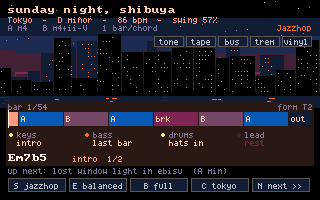
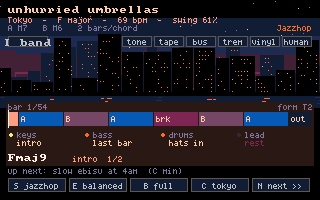
loficity: the band panel (I) - swap or mute keys / bass / lead / drums per style
Like the radios' band: each style gets four chairs, each cycling the
style's own casting, two or three alternatives and off. Only the sound
changes: the arranger plays the same notes into whichever instrument
sits in the chair. A pick lands at the next bar line and is saved per
style (save_int). Alternatives: Wurli / felt / bright upright / celesta
/ music box / string machine / bowed glass / CZ pad / FM4 glass / house
piano / supersaw / nylon / 12-string / harp / hurdy-gurdy keys; round /
FM / fretless / resonant PD / 808 / 303-style acid bass; muted trumpet
/ tenor / clarinet / cello / shawm / pan pipe / ooh voice / MME / organ
leads; brushes / 808 / 909 / cajon kits. The guitar-family keys keep
their held figures.

Levels: every alternative measured against its chair's default (87
stem renders), trimmed per STYLE (the muted trumpet needs +11 in
jazzhop, +8 in bossa); boosts on the slot eq, which now uses all seven
private FX buses. Spot checks land within 0-2 dB. DE_DEFINES pins
(LOFI_STYLE / LOFI_SEED / LC_FORCE) make these measurements without
editing the cart.

diff --git a/tools/carts/loficity.c b/tools/carts/loficity.c
@@ -26,8 +26,8 @@
   ],
   "description": {
     "summary": "Endless generated lofi in all nine Lofi Cities styles, arranged exactly the way loficities.com arranges it - played on our own engines.",
-    "detail": "Every track is one seed, and the seed plans everything the way loficities.com does, for whichever of its nine styles you pick: a key (each track moves to a related key), two progressions from the style's bank, 1 or 2 bars per chord, a tempo/swing/snare-lag from the style's ENERGY table, a drum groove from the style's own grids, a form (T1-T3, grown to 2.5-4 minutes) whose every section switches layers on and off. Per bar: fills, B-section variations, the keys comping by the style's own cells (fingerpicking patterns, bossa batida, house stabs, piano rolls) and PUSHING the next chord, the style's own bass line (a piano left hand, a viol walk, a synth bass cell, a house cell), a motif lead, and the master tone automated (the intro opening from 900 Hz, the break dipping, the outro closing). Each style has its own band on our engines: Rhodes, felt grand, unison-saw pads + drone, nylon and electric guitars with held figures and ghost strums, a driven organ with a pump, a lute with courses over a bowed viol and a drone, a muted brass horn, recorders, FM bells, a morphing kit with style-specific percussion. The screen is the arrangement made visible: the form strip with the playhead, what each part is doing, the chord, fills and pushes, and what's up next.",
-    "controls": "S style (from the next track) . N / SPACE next track . E energy (chill/balanced/upbeat, next track) . B band (full / no drums / chords only, next bar) . C city (the words the titles are made of) . 1-5 fx off/on (tone . tape . bus . trem . vinyl) . H help"
+    "detail": "Every track is one seed, and the seed plans everything the way loficities.com does, for whichever of its nine styles you pick: a key (each track moves to a related key), two progressions from the style's bank, 1 or 2 bars per chord, a tempo/swing/snare-lag from the style's ENERGY table, a drum groove from the style's own grids, a form (T1-T3, grown to 2.5-4 minutes) whose every section switches layers on and off. Per bar: fills, B-section variations, the keys comping by the style's own cells (fingerpicking patterns, bossa batida, house stabs, piano rolls) and PUSHING the next chord, the style's own bass line (a piano left hand, a viol walk, a synth bass cell, a house cell), a motif lead, and the master tone automated (the intro opening from 900 Hz, the break dipping, the outro closing). Each style has its own band on our engines: Rhodes, felt grand, unison-saw pads + drone, nylon and electric guitars with held figures and ghost strums, a driven organ with a pump, a lute with courses over a bowed viol and a drone, a muted brass horn, recorders, FM bells, a morphing kit with style-specific percussion. A band panel (I) gives each style four chairs - keys, bass, lead, drums - each cycling the style's own casting, two or three juicy alternatives (a Wurli, a 303 acid bass, a muted trumpet, a hurdy-gurdy, an 808 or 909 kit, a cajon...) and off, level-matched by measurement. The screen is the arrangement made visible: the form strip with the playhead, what each part is doing, the chord, fills and pushes, and what's up next.",
+    "controls": "S style (from the next track) . I the band: per part (keys / bass / lead / drums) swap the instrument or mute it, from the next bar, remembered per style . N / SPACE next track . E energy (chill/balanced/upbeat, next track) . B band (full / no drums / chords only, next bar) . C city (the words the titles are made of) . 1-6 off/on: tone . tape . bus . trem . vinyl . human . H help"
   }
 }
 de:meta */
@@ -48,10 +48,17 @@ de:meta */
 // a schedule_hit delay counts from whichever audio callback drains it, which swung notes by up to a
 // 23 ms buffer on native (gated by tools/schedule-check).
 //
-//   S style   N / SPACE next   E energy   B band   C city   1-5 fx   H help
+//   S style   I band (swap/mute parts)   N / SPACE next   E energy   B band   C city   1-6 fx   H help
 
+#ifndef LOFI_SEED
 #define LOFI_SEED 0      // pin a seed (0 = a random one each boot)
+#endif
+#ifndef LOFI_STYLE
 #define LOFI_STYLE -1    // pin the boot style (0..8 = jazzhop..medieval; -1 = jazzhop)
+#endif
+#ifndef LC_FORCE
+#define LC_FORCE -1      // test pin: chair*10 + candidate for the boot style, and the saved picks IGNORED (99 = ignore only)
+#endif
 #define LC_WOW 0.5f      // tape wow scale: 1 = their depth (+-3..12 cents at ~0.5 Hz), which read as seasick
 #define LC_FLUTTER 0.03f // tape flutter: ~1.6 cents at 6 Hz, their depth (0.12 was 4x that - an audible warble)
 #define LC_SAT 0.0f      // tape saturation: OFF. tape()'s curve is tanh(g*x)/tanh(g), normalised so full scale stays full
@@ -266,6 +273,172 @@ static void inst(int s, int wave, int a, int d, int sus, int r, float h, float t
 }
 
 // the kit's three morphdrum voices, from the style's own kit roll (every style replaces drums.kit)
+// ═══ THE BAND PANEL (I) — per-style CHAIRS, like the radios' band: each part cycles between the style's own
+// casting (candidate 0), a couple of alternatives, and OFF. Only the SOUND changes — the arranger plays the
+// same notes into whichever instrument sits in the chair. A change lands at the next bar; picks are saved.
+enum { CH_KEYS, CH_BASS, CH_LEAD, CH_DRUMS, NCHAIR };
+static const char *CHAIR_NAME[NCHAIR] = { "keys", "bass", "lead", "drums" };
+enum { CK_DEF = 0, CK_OFF,
+       CK_WURLI, CK_FELT, CK_BRIGHTUP, CK_CELESTA, CK_RHODES, CK_STRINGS, CK_GLASS, CK_NYLON, CK_VIBESK,
+       CK_PDPAD, CK_FM4GLASS, CK_HOUSEPNO, CK_SUPERSAW, CK_12STR, CK_MUSICBOX, CK_HARP, CK_HURDY,
+       CB_UPRIGHT, CB_ROUND, CB_FMRH, CB_FRETLESS, CB_PDRESO, CB_808, CB_ACID, CB_FM,
+       CL_MUTEDTP, CL_TENOR, CL_VIBES, CL_CLARINET, CL_CELESTA, CL_PANPIPE, CL_OOH, CL_SUPERSAW, CL_MME,
+       CL_FLUTE, CL_ORGAN, CL_CELLO, CL_SHAWM,
+       CD_BRUSH, CD_808, CD_909, CD_CAJON, NCK };
+typedef struct { const char *name; int kind; } Cand;
+typedef struct { int n; Cand c[4]; } Chair;
+#define C4(...) { 4, { __VA_ARGS__ } }   // variadic: each candidate is a braced {name, kind}, whose comma a
+#define C3(...) { 3, { __VA_ARGS__ } }   // plain macro argument list would split
+#define C2(...) { 2, { __VA_ARGS__ } }
+static const Chair CHAIRS[NSTYLE][NCHAIR] = {
+    [S_JAZZHOP] = { C4({"Rhodes",0},{"Wurli",CK_WURLI},{"felt piano",CK_FELT},{"off",CK_OFF}),
+                    C4({"upright",0},{"round sine",CB_ROUND},{"FM rhodes-bass",CB_FMRH},{"off",CK_OFF}),
+                    C4({"vibes / flute",0},{"muted trumpet",CL_MUTEDTP},{"tenor sax",CL_TENOR},{"off",CK_OFF}),
+                    C4({"dusty",0},{"brushes",CD_BRUSH},{"808",CD_808},{"off",CK_OFF}) },
+    [S_PIANO]   = { C4({"felt grand",0},{"bright upright",CK_BRIGHTUP},{"celesta",CK_CELESTA},{"off",CK_OFF}),
+                    C3({"left hand",0},{"upright",CB_UPRIGHT},{"off",CK_OFF}),
+                    C4({"right hand",0},{"vibes",CL_VIBES},{"clarinet",CL_CLARINET},{"off",CK_OFF}),
+                    C2({"brushes",0},{"off",CK_OFF}) },
+    [S_AMBIENT] = { C4({"saw pad",0},{"string machine",CK_STRINGS},{"bowed glass",CK_GLASS},{"off",CK_OFF}),
+                    C2({"sub",0},{"off",CK_OFF}),
+                    C4({"FM bell",0},{"celesta",CL_CELESTA},{"pan pipe",CL_PANPIPE},{"off",CK_OFF}),
+                    C2({"felt",0},{"off",CK_OFF}) },
+    [S_BOSSA]   = { C4({"nylon",0},{"Rhodes",CK_RHODES},{"vibes",CK_VIBESK},{"off",CK_OFF}),
+                    C3({"upright",0},{"fretless",CB_FRETLESS},{"off",CK_OFF}),
+                    C4({"nylon / flute",0},{"muted trumpet",CL_MUTEDTP},{"ooh voice",CL_OOH},{"off",CK_OFF}),
+                    C3({"brushes",0},{"cajon",CD_CAJON},{"off",CK_OFF}) },
+    [S_SYNTH]   = { C4({"poly saw",0},{"CZ pad",CK_PDPAD},{"FM4 glass",CK_FM4GLASS},{"off",CK_OFF}),
+                    C4({"saw mono",0},{"resonant PD",CB_PDRESO},{"808 sub",CB_808},{"off",CK_OFF}),
+                    C4({"square / glass",0},{"supersaw",CL_SUPERSAW},{"MME",CL_MME},{"off",CK_OFF}),
+                    C4({"city",0},{"808",CD_808},{"909",CD_909},{"off",CK_OFF}) },
+    [S_HOUSE]   = { C4({"organ",0},{"house piano",CK_HOUSEPNO},{"supersaw",CK_SUPERSAW},{"off",CK_OFF}),
+                    C4({"sine",0},{"303 acid",CB_ACID},{"FM",CB_FM},{"off",CK_OFF}),
+                    C3({"vox / pluck",0},{"flute",CL_FLUTE},{"off",CK_OFF}),
+                    C3({"house",0},{"909",CD_909},{"off",CK_OFF}) },
+    [S_GUITAR]  = { C4({"electric",0},{"nylon",CK_NYLON},{"12-string",CK_12STR},{"off",CK_OFF}),
+                    C3({"finger",0},{"upright",CB_UPRIGHT},{"off",CK_OFF}),
+                    C3({"electric",0},{"organ",CL_ORGAN},{"off",CK_OFF}),
+                    C3({"dust",0},{"brushes",CD_BRUSH},{"off",CK_OFF}) },
+    [S_SAD]     = { C4({"felt piano",0},{"Rhodes",CK_RHODES},{"music box",CK_MUSICBOX},{"off",CK_OFF}),
+                    C3({"sub",0},{"upright",CB_UPRIGHT},{"off",CK_OFF}),
+                    C4({"muted horn",0},{"cello",CL_CELLO},{"clarinet",CL_CLARINET},{"off",CK_OFF}),
+                    C2({"hush",0},{"off",CK_OFF}) },
+    [S_MEDIEVAL]= { C4({"lute",0},{"harp",CK_HARP},{"hurdy-gurdy",CK_HURDY},{"off",CK_OFF}),
+                    C2({"viol",0},{"off",CK_OFF}),
+                    C4({"recorder / wood",0},{"shawm",CL_SHAWM},{"pan pipe",CL_PANPIPE},{"off",CK_OFF}),
+                    C2({"frame drums",0},{"off",CK_OFF}) },
+};
+// level trims per alternative, dB vs the style's own casting in that chair: stem RMS of the chair alone, 40 s,
+// seeds whose lead enters early (2026-09-28). Per STYLE, not per instrument: the muted trumpet needs +11 in jazzhop
+// and +8 in bossa because the chair's default differs. Piano's bass/lead defaults play on its keys slot, so those
+// trims target jazzhop's proportions (bass keys-7, lead keys-4); sad's lead window was silent, so its two are estimates.
+// A boost goes on the slot's eq (a private bus), a cut on its level; boosts cap at +12.
+static const float TRIM[NSTYLE][NCHAIR][4] = {
+    [S_JAZZHOP] = { { 0, 0.0f, 12.0f, 0 }, { 0, -12.2f, -8.8f, 0 }, { 0, 11.0f, -6.1f, 0 }, { 0, 0.3f, -1.1f, 0 } },
+    [S_PIANO]   = { { 0, 3.5f, -3.8f, 0 }, { 0, -3.6f, 0, 0 },      { 0, -6.5f, -9.1f, 0 }, { 0 } },
+    [S_AMBIENT] = { { 0, -2.1f, -0.1f, 0 }, { 0 },                  { 0, 12.0f, 8.0f, 0 },  { 0 } },
+    [S_BOSSA]   = { { 0, -7.4f, -6.8f, 0 }, { 0, -10.1f, 0, 0 },    { 0, 8.2f, -6.0f, 0 },  { 0, 3.3f, 0, 0 } },
+    [S_SYNTH]   = { { 0, -3.2f, 7.0f, 0 }, { 0, 4.7f, -2.0f, 0 },   { 0, 5.0f, 8.2f, 0 },   { 0, -0.9f, -0.5f, 0 } },
+    [S_HOUSE]   = { { 0, 12.0f, -2.5f, 0 }, { 0, 1.2f, -4.5f, 0 },  { 0, -3.1f, 0, 0 },     { 0, 0.7f, 0, 0 } },
+    [S_GUITAR]  = { { 0, -0.8f, 3.1f, 0 }, { 0, 1.4f, 0, 0 },       { 0, -3.5f, 0, 0 },     { 0, 0.3f, 0, 0 } },
+    [S_SAD]     = { { 0, -1.5f, 12.0f, 0 }, { 0, 6.0f, 0, 0 },      { 0, -3.0f, -7.3f, 0 }, { 0 } },
+    [S_MEDIEVAL]= { { 0, -0.5f, -14.0f, 0 }, { 0 },                 { 0, -13.4f, -10.3f, 0 }, { 0 } },
+};
+static int chairSel[NSTYLE][NCHAIR];
+static float chair_trim(const Plan *P, int ch) { return TRIM[P->style][ch][chairSel[P->style][ch] & 3]; }
+static int chairDirty = 0;          // a change waiting for the next bar
+static bool showBand = false; static int bandRow = 0;
+static int ckind(const Plan *P, int ch) { const Chair *c = &CHAIRS[P->style][ch]; int i = chairSel[P->style][ch]; return i < c->n ? c->c[i].kind : 0; }
+static int guitarish(int k) { return k == CK_NYLON || k == CK_12STR || k == CK_HARP; }
+static void chairs_load(void) {
+    for (int st = 0; st < NSTYLE; st++) for (int c = 0; c < NCHAIR; c++) {
+        char key[16]; snprintf(key, sizeof key, "ch%d%d", st, c);
+        int v = load_int(key, 0); chairSel[st][c] = v >= 0 && v < CHAIRS[st][c].n ? v : 0;
+    }
+}
+static void chair_cycle(int style, int c, int dir) {
+    int n = CHAIRS[style][c].n; chairSel[style][c] = (chairSel[style][c] + dir + n) % n;
+    char key[16]; snprintf(key, sizeof key, "ch%d%d", style, c); save_int(key, chairSel[style][c]);
+    if (style == cur.P.style) chairDirty = 1;
+}
+static void cast_keys(int k, const Plan *P) {
+    for (int s = I_KEYS; s <= I_KEYSL; s++) {
+        int lng = s == I_KEYSL;
+        switch (k) {
+        case CK_WURLI:    inst(s, INSTR_EPIANO, 4, 0, 6, lng ? 2600 : 320, 0.55f, 0.40f, 0.30f); break;
+        case CK_RHODES:   inst(s, INSTR_EPIANO, 2, 0, 7, lng ? 2600 : 320, 0.10f, 0.36f, 0.18f); break;
+        case CK_FELT:     inst(s, INSTR_PIANO, 2, 0, 7, lng ? 2800 : 450, 0.04f, 0.20f, 0.55f); break;
+        case CK_BRIGHTUP: inst(s, INSTR_PIANO, 2, 0, 7, lng ? 2400 : 380, 0.22f, 0.62f, 0.30f); break;
+        case CK_HOUSEPNO: inst(s, INSTR_PIANO, 1, 0, 7, lng ? 1400 : 180, 0.22f, 0.85f, 0.25f); break;
+        case CK_CELESTA:  inst(s, INSTR_MALLET, 1, 500, 2, lng ? 1200 : 400, 0.50f, 0.55f, 0.45f); break;
+        case CK_MUSICBOX: inst(s, INSTR_MALLET, 0, 700, 0, 500, 0.72f, 0.75f, 0.30f); instrument_tune(s, 12); break;
+        case CK_VIBESK:   inst(s, INSTR_MALLET, 1, 0, 7, lng ? 1600 : 900, 0.25f, 0.50f, 0.85f); instrument_filter(s, FILTER_LOW, 3000, 0); break;
+        case CK_STRINGS:  inst(s, INSTR_SAW, 250, 0, 7, lng ? 2500 : 900, 0.5f, 0.5f, 0.5f); instrument_unison(s, 3, 0.15f);
+                          instrument_filter(s, FILTER_LOW, 3200, 0); instrument_lfo(s, 0, LFO_PITCH, 5.0f, 0.03f); break;
+        case CK_GLASS:    inst(s, INSTR_MODAL, 120, 0, 7, lng ? 2500 : 1500, 0.88f, 0.18f, 0.92f); break;
+        case CK_PDPAD:    inst(s, INSTR_PD, 300, 0, 7, lng ? 2000 : 1200, 0.30f, 0.30f, 0.50f); instrument_filter(s, FILTER_LOW, 2500, 0); break;
+        case CK_FM4GLASS: inst(s, INSTR_FM4, 2, 900, 3, lng ? 1500 : 600, 0.86f, 0.40f, 0.10f); break;
+        case CK_SUPERSAW: inst(s, INSTR_SAW, 2, 200, 4, lng ? 900 : 150, 0.5f, 0.5f, 0.5f); instrument_unison(s, 7, 0.30f);
+                          instrument_filter(s, FILTER_LOW, 4000, 0); break;
+        case CK_NYLON:    inst(s, INSTR_GUITAR, 1, 0, 7, lng ? 1400 : 160, 0.45f, 0.26f, 0.22f); break;
+        case CK_12STR:    inst(s, INSTR_GUITAR, 1, 0, 7, lng ? 1600 : 260, 0.30f, 0.70f, 0.15f); instrument_unison(s, 2, 0.06f); break;
+        case CK_HARP:     inst(s, INSTR_GUITAR, 1, 0, 7, lng ? 2400 : 600, 0.00f, 0.45f, 0.05f); break;
+        case CK_HURDY:    inst(s, INSTR_BOWED, 60, 0, 6, lng ? 900 : 200, 0.30f, 0.65f, 0.60f);
+                          instrument_mode(s, MODE_BOW_BODY, 0.85f); instrument_mode(s, MODE_BOW_SIZE, BOW_SIZE_VIOLA); break;
+        }
+        if (k != CK_VIBESK && k != CK_STRINGS && k != CK_PDPAD && k != CK_SUPERSAW) instrument_filter(s, FILTER_LOW, (int)fmax(2500, P->ep.lp), 0);
+        instrument_reverb(s, 0.30f);
+    }
+}
+static void cast_bass(int k) {
+    for (int s = I_BASS; s <= I_BASSS; s++) {
+        switch (k) {
+        case CB_UPRIGHT:  inst(s, INSTR_BOWED, 3, 0, 7, 90, 0.62f, 0.30f, 0.45f);
+                          instrument_mode(s, MODE_BOW_PIZZ, 1.0f); instrument_mode(s, MODE_BOW_BODY, 0.85f); instrument_mode(s, MODE_BOW_SIZE, BOW_SIZE_BASS);
+                          instrument_filter(s, FILTER_LOW, 950, 0); break;
+        case CB_ROUND:    inst(s, INSTR_SINE, 4, 0, 6, 150, 0.5f, 0.5f, 0.5f); instrument_filter(s, FILTER_LOW, 600, 0); break;
+        case CB_FMRH:     inst(s, INSTR_FM, 1, 600, 3, 120, 0.10f, 0.35f, 0.10f); instrument_filter(s, FILTER_LOW, 1500, 0); break;
+        case CB_FRETLESS: inst(s, INSTR_TRI, 20, 0, 6, 150, 0.5f, 0.5f, 0.5f); instrument_filter(s, FILTER_LOW, 900, 0); instrument_glide(s, 60); break;
+        case CB_PDRESO:   inst(s, INSTR_PD, 2, 250, 3, 80, 0.94f, 0.55f, 0.40f); instrument_filter(s, FILTER_LOW, 1800, 0); break;
+        case CB_808:      inst(s, INSTR_SINE, 2, 900, 0, 200, 0.5f, 0.5f, 0.5f); instrument_env(s, 0, ENV_PITCH, 0, 40, 3.0f); break;
+        case CB_ACID:     inst(s, INSTR_SAW, 1, 200, 3, 60, 0.5f, 0.5f, 0.5f); instrument_filter(s, FILTER_DIODE, 600, 3);
+                          instrument_env(s, 0, ENV_CUTOFF, 0, 160, 1800); break;
+        case CB_FM:       inst(s, INSTR_FM, 1, 300, 3, 80, 0.30f, 0.50f, 0.20f); break;
+        }
+    }
+    instrument_env(I_BASSS, 1, ENV_PITCH, 0, 60, -1.0f);                      // the slid-into note scoops up
+    if (k == CB_ACID) instrument_glide(I_BASSS, 60);
+}
+static void cast_lead(int k, const Plan *P) {
+    for (int s = I_LEAD; s <= I_LEAD2; s++) {
+        switch (k) {
+        case CL_MUTEDTP:  inst(s, INSTR_BRASS, 1, 0, 4, 600, 0.15f, 0.55f, 0.42f); instrument_filter(s, FILTER_BAND, 1700, 2); break;
+        case CL_TENOR:    inst(s, INSTR_REED, 10, 0, 5, 200, 0.80f, 0.35f, 0.50f); instrument_filter(s, FILTER_LOW, 3000, 0); instrument_lfo(s, 0, LFO_PITCH, 5.2f, 0.12f); break;
+        case CL_VIBES:    inst(s, INSTR_MALLET, 1, 0, 7, 1100, 0.25f, 0.50f, 0.90f); break;
+        case CL_CLARINET: inst(s, INSTR_REED, 12, 0, 5, 200, 0.15f, 0.30f, 0.35f); break;
+        case CL_CELESTA:  inst(s, INSTR_MALLET, 1, 500, 2, 400, 0.50f, 0.55f, 0.45f); break;
+        case CL_PANPIPE:  inst(s, INSTR_PIPE, 20, 0, 5, 200, 0.0f, 0.55f, 0.40f); instrument_lfo(s, 0, LFO_PITCH, 5.0f, 0.08f); break;
+        case CL_OOH:      inst(s, INSTR_VOICE, 60, 0, 6, 250, 0.12f, 0.60f, 0.40f); instrument_lfo(s, 0, LFO_PITCH, 5.4f, 0.3f); break;
+        case CL_SUPERSAW: inst(s, INSTR_SAW, 5, 0, 6, 200, 0.5f, 0.5f, 0.5f); instrument_unison(s, 7, 0.25f); instrument_filter(s, FILTER_LOW, 5000, 0); break;
+        case CL_MME:      inst(s, INSTR_MME, 5, 0, 5, 200, 0.30f, 0.45f, 0.50f); instrument_filter(s, FILTER_LOW, 4000, 0); break;
+        case CL_FLUTE:    inst(s, INSTR_PIPE, 14, 0, 5, 220, 0.0f, 0.34f, 0.68f); instrument_lfo(s, 0, LFO_PITCH, 5.0f, 0.10f); instrument_glide(s, 13); break;
+        case CL_ORGAN:    inst(s, INSTR_ORGAN, 1, 0, 7, 200, 0.44f, 0.55f, 0.75f); break;
+        case CL_CELLO:    inst(s, INSTR_BOWED, 80, 0, 6, 300, 0.50f, 0.40f, 0.50f); instrument_mode(s, MODE_BOW_BODY, 0.85f);
+                          instrument_mode(s, MODE_BOW_SIZE, BOW_SIZE_CELLO); instrument_lfo(s, 0, LFO_PITCH, 5.0f, 0.10f); break;
+        case CL_SHAWM:    inst(s, INSTR_REED, 8, 0, 5, 150, 0.05f, 0.95f, 0.60f); break;
+        }
+        instrument_reverb(s, 0.35f); instrument_echo(s, 0.3f); instrument_pan(s, (float)P->leadPan);
+    }
+}
+// the chairs' alternatives go on AFTER the style's own casting: wipe the chair's slots (the default left its
+// modulators there), then cast the pick
+static void apply_chairs(const Plan *P) {
+    int k = ckind(P, CH_KEYS), b = ckind(P, CH_BASS), l = ckind(P, CH_LEAD);
+    if (k > CK_OFF) { slot_reset(I_KEYS); slot_reset(I_KEYSL); cast_keys(k, P); }
+    if (b > CK_OFF) { slot_reset(I_BASS); slot_reset(I_BASSS); cast_bass(b); }
+    if (l > CK_OFF) { slot_reset(I_LEAD); slot_reset(I_LEAD2); cast_lead(l, P); }
+}
+
 static void voice_kit(const Plan *P) {
     double F0 = kv_has(P, "drums.kit.kickF0") ? kv(P, "drums.kit.kickF0") : 110, F1 = kv_has(P, "drums.kit.kickF1") ? kv(P, "drums.kit.kickF1") : 48;
     double kd = kv_has(P, "drums.kit.kickDecay") ? kv(P, "drums.kit.kickDecay") : 0.18;
@@ -292,6 +465,15 @@ static void voice_kit(const Plan *P) {
     // the OPEN hat: house plays one on EVERY offbeat with no closed hat to choke it, and x4000 rang each for
     // >0.5 s into the next — boom-chuff boom-chuff, a steam train. Their open hat is a short exponential tick.
     h[MD_ODEC]  = c01(((is(P, S_HOUSE) ? kv(P, "drums.kit.openDecay") * 1200 : 0.12 * 4000) - 80) / 720.0);
+    switch (ckind(P, CH_DRUMS)) {      // the drums chair: brushes / 808 / 909 re-voice the morphing kit
+    case CD_BRUSH: k[MD_CUT] = 0.30f; k[MD_CLICK] = 0.10f; k[MD_DRIVE] = 0.1f; s[MD_DECAY] = 0.25f; s[MD_TONE] = 0.85f; s[MD_CUT] = 0.30f; break;
+    case CD_808:   k[MD_CHAR] = 0; s[MD_CHAR] = 0; h[MD_CHAR] = 0; k[MD_DECAY] = 0.62f; k[MD_TUNE] = 0.30f; k[MD_PUNCH] = 0.45f; k[MD_CLICK] = 0.08f;
+                   k[MD_DRIVE] = 0.15f; s[MD_TONE] = 0.55f; break;
+    case CD_909:   k[MD_CHAR] = 1; s[MD_CHAR] = 1; h[MD_CHAR] = 1; k[MD_DECAY] = 0.32f; k[MD_PUNCH] = 0.6f; k[MD_CLICK] = 0.40f;
+                   k[MD_DRIVE] = 0.30f; s[MD_TONE] = 0.65f; break;
+    case CD_CAJON: inst(I_TOM, INSTR_MEMBRANE, 0, 0, 7, 120, 0.25f, 0.08f, 0.0f); instrument_level(I_TOM, 1.0f);
+                   inst(I_CLAP, INSTR_MEMBRANE, 0, 0, 7, 50, 0.45f, 0.92f, 0.0f); instrument_filter(I_CLAP, FILTER_OFF, 20000, 0); instrument_level(I_CLAP, 0.85f); break;
+    }
     morph_ride(&kit);
     // (kit levels: set by the style MIX block at the end of voice_track — after the ride, which resets the hats)
     // the percussion slots every style shares a shape of
@@ -564,6 +746,7 @@ static void voice_track(const Plan *P) {
     }
     }
     (void)lv;
+    apply_chairs(P);
     voice_kit(P);
     for (int s = MDS_KICK; s <= MDS_KICKS; s++) sidechain_key(KIT_BASE + s, 0, sc > 0 ? 1.0f : 0.0f);
     pumpAmt = sc * 0.6f * LC_PUMP; pumpRel = scRel;
@@ -591,10 +774,23 @@ static void voice_track(const Plan *P) {
     // the lead, per timbre slot: a trim that BOOSTS goes on the slot's own eq (a private bus), a cut on its level
     //   (lead vs keys, 90 s renders on seeds whose lead enters early; jazzhop's -4 dB is the reference)
     float ld[2] = { STYLE_MIX[P->style].leadDb, STYLE_MIX[P->style].lead2Db };
-    for (int i = 0; i < 2; i++) {
+    for (int i = 0; i < 2 && ckind(P, CH_LEAD) <= CK_OFF; i++) {
         int sl = i ? I_LEAD2 : I_LEAD;
         if (ld[i] > 0) instrument_eq(sl, ld[i], ld[i], ld[i]);
         else if (ld[i] < 0) instrument_level(sl, powf(10, ld[i] / 20));
+    }
+    {   // the chairs' levels: an alternative sits at a measured trim, not the style's own balance
+        int k = ckind(P, CH_KEYS), b = ckind(P, CH_BASS), l = ckind(P, CH_LEAD);
+        if (k > CK_OFF) { float t = chair_trim(P, CH_KEYS);
+                          keysBase = 0.8 * (t < 0 ? powf(10, t / 20) : 1); keysLevel = keysBase * band_layers(P->sec[0].L, P->band, style_of(P)->keysLevel).level;
+                          for (int q = I_KEYS; q <= I_KEYSL; q++) { instrument_level(q, (float)fmin(1, keysLevel)); if (t > 0) instrument_eq(q, t, t, t); } }
+        if (b > CK_OFF) { float t = chair_trim(P, CH_BASS);
+                          for (int q = I_BASS; q <= I_BASSS; q++) { instrument_level(q, 0.8f * (t < 0 ? powf(10, t / 20) : 1)); if (t > 0) instrument_eq(q, t, t, t); } }
+        if (l > CK_OFF) for (int q = I_LEAD; q <= I_LEAD2; q++) {
+            float t = chair_trim(P, CH_LEAD);
+            if (t > 0) instrument_eq(q, t, t, t);
+            instrument_level(q, t < 0 ? powf(10, t / 20) : 1);
+        }
     }
     styleDb = STYLE_MIX[P->style].masterDb; apply_bus();   // every track: the pump / glue + the style gain
     lastLeadAt = -10;
@@ -682,7 +878,13 @@ static void dispatch(Track *T, const Ev *e) {
     switch (e->k) {
     case K_EP: {
         int lng = e->rel > 0.5, held = e->rel >= 0.095 && e->nn >= 3 && durSteps >= 7.5;
-        int slot = lng ? I_KEYSL : I_KEYS;
+        int slot = lng ? I_KEYSL : I_KEYS, kc = ckind(P, CH_KEYS);
+        if (kc == CK_OFF) break;
+        if (kc > CK_OFF) {                                             // an alternative in the keys chair
+            if (guitarish(kc) && held) held_figure(slot, slot, d, e->notes, e->nn, e->vel, e->dur, sd, lng);
+            else play_chord(slot, d, e->notes, e->nn, e->vel, e->dur, guitarish(kc) ? e->strum : e->strum, 0, 1.08);
+            flash[K_EP] = 1; break;
+        }
         switch (P->style) {
         case S_PIANO: case S_SAD: {
             int roll = e->nn >= 3 && rnd_float() < kv(P, "piano.roll");
@@ -742,21 +944,32 @@ static void dispatch(Track *T, const Ev *e) {
         flash[K_EP] = 1; break;
     }
     case K_BASS: {
-        if (is(P, S_PIANO)) { schedule_at(d, e->midi, I_KEYS, v2vol(e->vel, 10.5), (int)(e->dur * 1000)); flash[K_BASS] = 1; break; }   // the left hand
+        int bk = ckind(P, CH_BASS);
+        if (bk == CK_OFF) break;
+        if (is(P, S_PIANO) && bk == CK_DEF) { schedule_at(d, e->midi, I_KEYS, v2vol(e->vel, 10.5), (int)(e->dur * 1000)); flash[K_BASS] = 1; break; }   // the left hand
         int s = e->slide ? I_BASSS : I_BASS;
         schedule_at(d, e->midi, s, v2vol(e->vel, 8.6), (int)(e->dur * 1000)); flash[K_BASS] = 1; break;
     }
+    case K_KICK: case K_SNARE: case K_HAT: case K_RIM: case K_CLAP: case K_SHAKER: case K_TOM: case K_BLOCK:
+        if (ckind(P, CH_DRUMS) == CK_OFF) break;
+        if (ckind(P, CH_DRUMS) == CD_CAJON && e->k <= K_HAT) {         // the cajon: bass tone, slap, and the rest as a shaker
+            if (e->k == K_KICK) schedule_at(d, 40, I_TOM, v2vol(e->vel, 9), 200);
+            else if (e->k == K_SNARE) schedule_at(d, 62, I_CLAP, v2vol(e->vel, 9), 80);
+            else schedule_at(d, 60, I_SHAKER, v2vol(e->vel * 0.8, 7.6), 40);
+            flash[K_KICK] = 1; break;
+        }
+        switch (e->k) {
     case K_KICK:
-        if (is(P, S_MEDIEVAL)) { schedule_at(d, (int)lround(ftom(kv(P, "drums.kit.kickF0"))), I_TOM, v2vol(e->vel, 10), (int)(kv(P, "drums.kit.kickDecay") * 3000)); }
+        if (is(P, S_MEDIEVAL) && ckind(P, CH_DRUMS) == CK_DEF) { schedule_at(d, (int)lround(ftom(kv(P, "drums.kit.kickF0"))), I_TOM, v2vol(e->vel, 10), (int)(kv(P, "drums.kit.kickDecay") * 3000)); }
         else fire_kick(d, e->vel);
         flash[K_KICK] = 1; break;
     case K_SNARE:
-        if (is(P, S_MEDIEVAL)) schedule_at(d, (int)lround(ftom(kv(P, "drums.kit.slapBP") / 3)), I_CLAP, v2vol(e->vel, 10), 80);
+        if (is(P, S_MEDIEVAL) && ckind(P, CH_DRUMS) == CK_DEF) schedule_at(d, (int)lround(ftom(kv(P, "drums.kit.slapBP") / 3)), I_CLAP, v2vol(e->vel, 10), 80);
         else fire_snare(d, e->vel);
         flash[K_SNARE] = 1; break;
     case K_HAT:
-        if (is(P, S_HOUSE)) schedule_at(d, 60, e->open ? I_NHATO : I_NHAT, v2vol(e->vel, 7.6), e->open ? (int)(kv(P, "drums.kit.openDecay") * 4000) : 60);
-        else if (is(P, S_MEDIEVAL)) { for (int b = 0; b < (e->open ? 5 : 3); b++) schedule_at(d + b * (e->open ? 0.022 : 0.012), 84, I_BLOCK, v2vol(e->vel * (b ? 0.7 : 1), 7), e->open ? 160 : 60); }
+        if (is(P, S_HOUSE) && ckind(P, CH_DRUMS) == CK_DEF) schedule_at(d, 60, e->open ? I_NHATO : I_NHAT, v2vol(e->vel, 7.6), e->open ? (int)(kv(P, "drums.kit.openDecay") * 4000) : 60);
+        else if (is(P, S_MEDIEVAL) && ckind(P, CH_DRUMS) == CK_DEF) { for (int b = 0; b < (e->open ? 5 : 3); b++) schedule_at(d + b * (e->open ? 0.022 : 0.012), 84, I_BLOCK, v2vol(e->vel * (b ? 0.7 : 1), 7), e->open ? 160 : 60); }
         else fire_hat(d, e->vel, e->open);
         flash[K_HAT] = 1; break;
     case K_RIM: {
@@ -777,11 +990,14 @@ static void dispatch(Track *T, const Ev *e) {
         schedule_at(d, m, I_TOM, v2vol(e->vel, 8), 200); flash[K_KICK] = 1; break;
     }
     case K_BLOCK: schedule_at(d, is(P, S_HOUSE) ? 64 : 80, I_BLOCK, v2vol(e->vel, 7.6), is(P, S_HOUSE) ? 400 : 40); flash[K_HAT] = 1; break;
+        }
+        break;
     case K_LEAD: {
         if (!P->hasLead) break;
         const char *lt = kvs(P, "lead.timbre"), *lv = kvs(P, "lead.voice");
-        int s = I_LEAD;
-        switch (P->style) {
+        int s = I_LEAD, lk = ckind(P, CH_LEAD);
+        if (lk == CK_OFF) break;
+        if (lk == CK_DEF) switch (P->style) {
         case S_JAZZHOP: s = !strcmp(lt, "soft") ? I_LEAD2 : I_LEAD; break;
         case S_BOSSA:   s = !strcmp(lt, "flute") ? I_LEAD2 : I_LEAD; break;
         case S_AMBIENT: s = !strcmp(lt, "soft") ? I_LEAD2 : I_LEAD;
@@ -954,6 +1170,11 @@ static void ride_sections(void) {
     static int lastBar = -2, lastStyleR = -1;
     const Plan *P = &cur.P;
     double barDur = 16 * stepDur(P); int bar = (int)floor((clk - cur.start) / barDur);
+    if (chairDirty && bar != lastBar) {                           // a band-panel pick lands on the bar line
+        int ch[6] = { I_KEYS, I_KEYSL, I_BASS, I_BASSS, I_LEAD, I_LEAD2 };
+        for (int i = 0; i < 6; i++) slot_reset(ch[i]);
+        voice_track(&cur.P); chairDirty = 0;
+    }
     if (bar == lastBar && P->style == lastStyleR) return;
     lastBar = bar; lastStyleR = P->style;
     int sec = sec_at_bar(&cur, bar < 0 ? 0 : bar);
@@ -1011,6 +1232,8 @@ void update(void) {
     static bool booted = false;
     if (!booted) {
         setup_band();
+        if (LC_FORCE < 0) chairs_load();
+        else if (LC_FORCE != 99) chairSel[LOFI_STYLE >= 0 ? LOFI_STYLE : 0][LC_FORCE / 10] = LC_FORCE % 10;
         uint32_t seed = LOFI_SEED ? LOFI_SEED : (uint32_t)(rnd(1 << 30)) * 4u + (uint32_t)rnd(4);
         clk = 0;
         if (LOFI_STYLE >= 0) styleSel = LOFI_STYLE;
@@ -1028,6 +1251,13 @@ void update(void) {
     if (keyp('B')) set_band((bandSel + 1) % NBAND);                                  // from the next bar
     if (keyp('C')) { citySel = (citySel + 1) % LC_NCITY; refresh_queue(); }
     if (keyp('H')) showHelp = !showHelp;
+    if (keyp('I')) showBand = !showBand;
+    if (showBand) {                                                   // the band panel: rows = chairs, left/right = cycle
+        if (keyp(KEY_UP)) bandRow = (bandRow + NCHAIR - 1) % NCHAIR;
+        if (keyp(KEY_DOWN)) bandRow = (bandRow + 1) % NCHAIR;
+        if (keyp(KEY_LEFT)) chair_cycle(cur.P.style, bandRow, -1);
+        if (keyp(KEY_RIGHT)) chair_cycle(cur.P.style, bandRow, 1);
+    }
     for (int i = 0; i < NFXT; i++) if (keyp('1' + i)) toggle_fx(i);
     advance();
     ride_sections();
@@ -1180,6 +1410,24 @@ void draw(void) {
     }
     print(str("up next: %s  (%s %s)", upNext[0].title, NOTE_NAMES[upNext[0].key.tonic], upNext[0].key.major ? "maj" : "min"), 8, 168, CLR_INDIGO);
     font(FONT_NORMAL);
+    if (ui_button(8, 36, 40, 11, "I band")) showBand = !showBand;
+    if (showBand) {
+        const Plan *Pb = &cur.P; int x0 = 44, y0 = 54, w = 232, h = 20 + NCHAIR * 16 + 10;
+        rectfill(x0, y0, w, h, CLR_BROWNISH_BLACK); rect(x0, y0, w, h, CLR_PEACH);
+        font(FONT_SMALL);
+        print(str("THE BAND - %s%s", STYLES[Pb->style]->name, chairDirty ? "   (next bar)" : ""), x0 + 6, y0 + 5, CLR_PEACH);
+        for (int c = 0; c < NCHAIR; c++) {
+            int y = y0 + 18 + c * 16; const Chair *ch = &CHAIRS[Pb->style][c]; int sel = chairSel[Pb->style][c];
+            if (c == bandRow) rectfill(x0 + 3, y - 2, w - 6, 13, CLR_DARKER_PURPLE);
+            print(CHAIR_NAME[c], x0 + 8, y + 2, CLR_INDIGO);
+            if (ui_button(x0 + 50, y, 14, 10, "<")) { bandRow = c; chair_cycle(Pb->style, c, -1); }
+            print(ch->c[sel].name, x0 + 70, y + 2, ch->c[sel].kind == CK_OFF ? CLR_DARK_PURPLE : sel ? CLR_YELLOW : CLR_LIGHT_PEACH);
+            if (ui_button(x0 + w - 24, y, 14, 10, ">")) { bandRow = c; chair_cycle(Pb->style, c, 1); }
+            for (int q = 0; q < ch->n; q++) pset(x0 + 150 + q * 4, y + 5, q == sel ? CLR_PEACH : CLR_DARK_PURPLE);
+        }
+        print("up/down: part   left/right: instrument   I: close", x0 + 6, y0 + h - 8, CLR_DARK_PURPLE);
+        font(FONT_NORMAL);
+    }
     if (showHelp) {
         rectfill(40, 40, 240, 92, CLR_BROWNISH_BLACK); rect(40, 40, 240, 92, CLR_PEACH);
         font(FONT_SMALL);
@@ -1192,6 +1440,7 @@ void draw(void) {
             "B           band full / no drums / chords only (next bar)",
             "C           city - the words the titles are made of",
             "1-6         off/on: tone . tape . bus . trem . vinyl . human",
+            "I           the band: swap or mute keys/bass/lead/drums",
             "H           this help",
             "",
             "each track = one seed: key (moves to a related key),",
